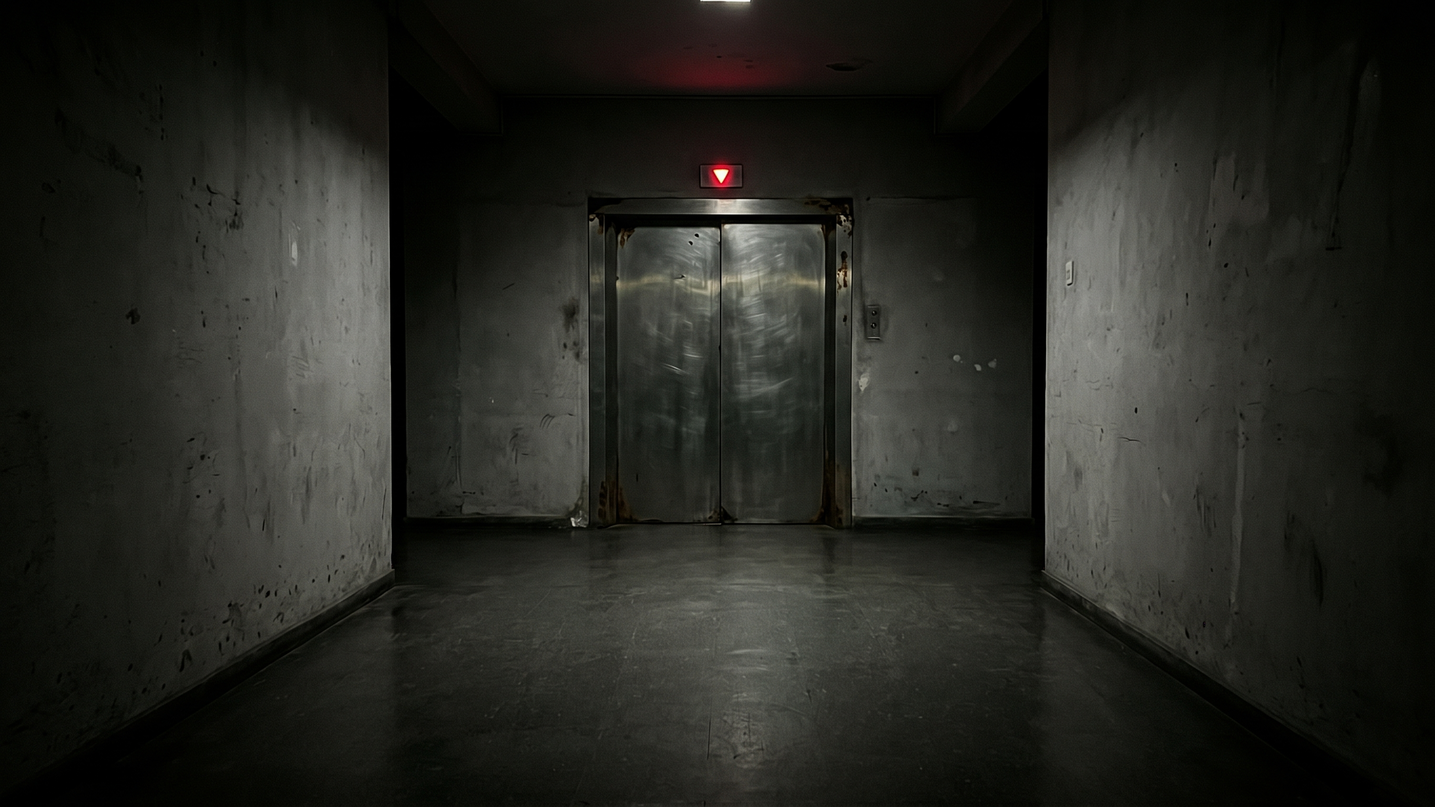
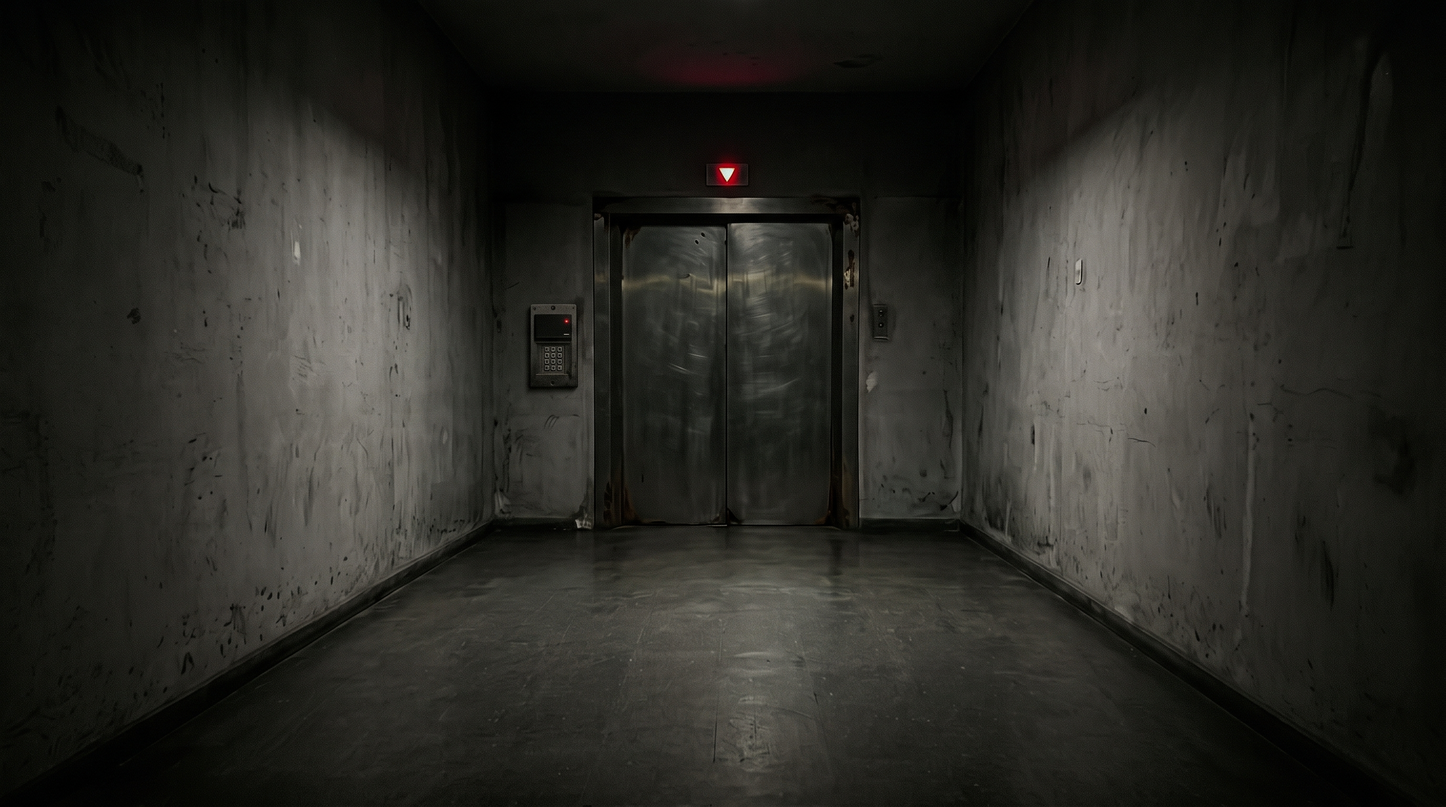
Adicionando interações e lógica de progresso

diff --git a/controller.py b/controller.py
@@ -1,0 +1,169 @@
+import pygame
+
+
+salas = ("salas/sala0.jpg",#elevador                             0
+        "salas/sala1.jpg",#hall                                  1
+        "salas/sala2.jpg",#corredor                              2
+        "salas/sala3.jpg",#relogio sala                          3
+        "salas/sala4.jpg",#manequim sala                         4
+        "salas/sala01.jpg",#elevador aberto                      5
+        "salas/sala0001.jpg",#painel elevador                    6
+        "salas/sala2001.jpg",#painel corredor fuzivel            7
+        "salas/sala2002.jpg",#painel corredor                    8
+        "salas/sala3001.jpg",#close relogio                      9
+        "salas/sala3002.jpg",#portilha relogio cartao            10
+        "salas/sala3003.jpg",#portilha relogio aberto            11
+        "salas/sala3004.jpg",#portilha relogio fechado           12
+        "salas/sala4001.jpg",# close manequim                    13
+        "salas/sala4002.jpg",#close manequim chave               14
+        "salas/sala4003.jpg",#portilha manequim fuzivel          15
+        "salas/sala4004.jpg",#portilha manequim                  16
+        "salas/sala4005.jpg"#manquim sem cabeça e chave          17
+        )  
+
+def touch(sala,menu,evento,inventario,state):
+        if evento.type == pygame.MOUSEBUTTONDOWN and evento.button == 1 and menu == False:
+                if sala == 0: #elevador 
+                        #PORTA PRINCIPAL
+                        if pygame.Rect(327, 120, 148, 209).collidepoint(evento.pos) and evento.type == pygame.MOUSEBUTTONDOWN:
+                                return sala, "Está trancada"
+                        #PAINEL ELEVADOR
+                        elif pygame.Rect(282, 181, 43, 67).collidepoint(evento.pos) and evento.type == pygame.MOUSEBUTTONDOWN:
+                                return 6, ""
+                        #VOLTAR
+                        elif pygame.Rect(1, 412, 797, 82).collidepoint(evento.pos) and evento.type == pygame.MOUSEBUTTONDOWN:
+                                return 1, ""
+                elif sala == 1:#hall 
+                        #PORTA DIREITA
+                        if pygame.Rect(29, 171, 107, 126).collidepoint(evento.pos) and evento.type == pygame.MOUSEBUTTONDOWN:
+                                return 4, ""
+                        #PORTA MEIO
+                        elif pygame.Rect(311, 76, 189, 270).collidepoint(evento.pos) and evento.type == pygame.MOUSEBUTTONDOWN:
+                                if state["elevador"]:
+                                        return 5, ""
+                                else:
+                                        return 0, ""
+                        #PORTA ESQUERDA
+                        elif pygame.Rect(646, 81, 131, 411).collidepoint(evento.pos) and evento.type == pygame.MOUSEBUTTONDOWN:
+                                return 2, ""
+                elif sala == 2:#corredor
+                        #PORTA FRENTE
+                        if pygame.Rect(340, 25, 107, 193).collidepoint(evento.pos) and evento.type == pygame.MOUSEBUTTONDOWN:
+                                if state["fuzivel_parede2"]:
+                                        return 3, ""
+                                else:
+                                        return sala, "Está sem energia"
+                                
+                        #PAINEL
+                        elif pygame.Rect(465, 94, 64, 86).collidepoint(evento.pos) and evento.type == pygame.MOUSEBUTTONDOWN:
+                                if state["fuzivel_parede2"]:
+                                        return 7, ""
+                                else:
+                                        return 8, ""
+                        #MANEQUIM
+                        #PORTA VOLTAR
+                        elif pygame.Rect(1, 412, 797, 82).collidepoint(evento.pos) and evento.type == pygame.MOUSEBUTTONDOWN:
+                                return 1, ""
+                elif sala == 3:#relogio sala 
+                        #RELOGIO
+                        if pygame.Rect(160, 97, 120, 276).collidepoint(evento.pos) and evento.type == pygame.MOUSEBUTTONDOWN:
+                                return 9, ""
+                        #PAINEL
+                        elif pygame.Rect(723, 214, 73, 137).collidepoint(evento.pos) and evento.type == pygame.MOUSEBUTTONDOWN:
+                                if state["portilha"] == 0: #trancado
+                                        return 12, ""
+                                elif state["portilha"] == 1: #sem cartao
+                                        return 11, ""
+                                elif state["portilha"] == 2: #com cartao
+                                        return 10, ""
+                        #VOLTAR
+                        elif pygame.Rect(1, 412, 797, 82).collidepoint(evento.pos) and evento.type == pygame.MOUSEBUTTONDOWN:
+                                return 2, ""
+                elif sala == 4:#manequim sala 
+                        #PAINEL
+                        if pygame.Rect(457, 129, 69, 62).collidepoint(evento.pos) and evento.type == pygame.MOUSEBUTTONDOWN:
+                                if state["fuzivel_parede1"]:
+                                        return 15, ""
+                                else:
+                                        return 16, ""
+                        #MANEQUIM
+                        elif pygame.Rect(36, 81, 182, 417).collidepoint(evento.pos) and evento.type == pygame.MOUSEBUTTONDOWN:
+                                if state["cabeca_chave"] and inventario["chave"]:
+                                        return 17, ""
+                                elif state["cabeca_chave"] and inventario["chave"] == False:
+                                        return 14, ""
+                                elif state["cabeca_chave"] == False and inventario["chave"] == False:
+                                        return 13, ""
+                        #VOLTAR
+                        elif pygame.Rect(1, 412, 797, 82).collidepoint(evento.pos) and evento.type == pygame.MOUSEBUTTONDOWN:
+                                return 1, ""
+                elif sala == 5:#elevador aberto
+                        print("teste")
+                        #VOLTAR
+                        if pygame.Rect(1, 412, 797, 82).collidepoint(evento.pos) and evento.type == pygame.MOUSEBUTTONDOWN:
+                                return 1, ""
+                        #PORTA PRINCIPAL
+                        elif pygame.Rect(327, 120, 148, 209).collidepoint(evento.pos) and evento.type == pygame.MOUSEBUTTONDOWN:
+                                return sala, "Está trancada"
+                        #PAINEL ELEVADOR
+                        elif pygame.Rect(282, 181, 43, 67).collidepoint(evento.pos) and evento.type == pygame.MOUSEBUTTONDOWN:
+                                return 6, ""
+                elif sala == 6:#painel elevador
+                        #VOLTAR
+                        if pygame.Rect(1, 412, 797, 82).collidepoint(evento.pos) and evento.type == pygame.MOUSEBUTTONDOWN:
+                                if state["elevador"]:
+                                        return 5, ""
+                                else:
+                                        return 0, ""
+                        #CLICAR PAINEL
+                        elif pygame.Rect(318, 63, 162, 325).collidepoint(evento.pos) and evento.type == pygame.MOUSEBUTTONDOWN:
+                                print("oi")
+                elif sala == 7 or sala == 8 :#FUZIVEL corredor
+                        #VOLTAR
+                        if pygame.Rect(1, 412, 797, 82).collidepoint(evento.pos) and evento.type == pygame.MOUSEBUTTONDOWN:
+                                return 2, ""
+                        #CLICAR FUZIVEL
+                        elif pygame.Rect(256, 37, 370, 341).collidepoint(evento.pos) and evento.type == pygame.MOUSEBUTTONDOWN:
+                                if inventario["fuzivel"] == False:
+                                        return sala,"É necessario um fuzivel"
+                                elif inventario["fuzivel"] and state["fuzivel_parede2"] == False:
+                                        state["fuzivel_parede2"] = True
+                                        return 7, ""
+                                elif state["fuzivel_parede2"]:
+                                        return sala, "Você já pôs o fuzivel."
+
+                elif sala == 9:#close relogio 
+                        #VOLTAR
+                        if pygame.Rect(1, 412, 797, 82).collidepoint(evento.pos) and evento.type == pygame.MOUSEBUTTONDOWN:
+                                return 3, ""
+                        #CLICAR RELOGIO
+                        elif pygame.Rect(116, 44, 600, 450).collidepoint(evento.pos) and evento.type == pygame.MOUSEBUTTONDOWN:
+                                return sala, "São 7:45"
+                elif sala == 10 or sala == 11 or sala == 12:#portilha relogio
+                        #VOLTAR
+                        if pygame.Rect(1, 412, 797, 82).collidepoint(evento.pos) and evento.type == pygame.MOUSEBUTTONDOWN:
+                                return 3, ""
+                        #CLICAR PORTINHOLA
+                        elif pygame.Rect(253, 82, 318, 305).collidepoint(evento.pos) and evento.type == pygame.MOUSEBUTTONDOWN:
+                                print("oi")
+                elif sala == 13 or sala == 14 or sala == 17:#close manequim
+                        #VOLTAR
+                        if pygame.Rect(1, 412, 797, 82).collidepoint(evento.pos) and evento.type == pygame.MOUSEBUTTONDOWN:
+                                return 4, ""
+                        #CLICAR MANEQUIM
+                        elif pygame.Rect(169, 3, 525, 493).collidepoint(evento.pos) and evento.type == pygame.MOUSEBUTTONDOWN:
+                                print("oi")
+                elif sala == 15 or sala == 16:#portilha manequim fuzivel
+                        #VOLTAR
+                        if pygame.Rect(1, 412, 797, 82).collidepoint(evento.pos) and evento.type == pygame.MOUSEBUTTONDOWN:
+                                return 4, ""
+                        #CLICAR FUZIVEL
+                        elif pygame.Rect(252, 71, 326, 356).collidepoint(evento.pos) and evento.type == pygame.MOUSEBUTTONDOWN:
+                                if state["fuzivel_parede1"]:
+                                        inventario["fuzivel"] = True; 
+                                        state["fuzivel_parede1"] = False
+                                        return 16, ""
+                                else:
+                                        return sala, "Você ja pegou o fuzivel."
+        
+        return sala, ""

diff --git a/main.py b/main.py
@@ -1,8 +1,9 @@
 import sys, os
 sys.path.insert(0, os.path.dirname(os.path.abspath(__file__)))
 import pygame
-import telas
+import controller
 import config
+import progress
 
 pygame.init()
 
@@ -35,7 +36,7 @@ tela = pygame.display.set_mode(config.resulucao[res])
 relogio = pygame.time.Clock()
 
 fundo_menu = carregar("salas/menu.jpg")
-fundos = [carregar(c) for c in telas.salas]
+fundos = [carregar(c) for c in controller.salas]
 
 preta = pygame.Surface((1920,1080))
 preta.fill((0,0,0))
@@ -61,8 +62,7 @@ while rodando:
         alpha -= 15
         if alpha <= 0:
             acende = False
-        
-
+        print(progress.inventario["fuzivel"])
  #FOR DE EVENTOS#
     for evento in pygame.event.get():
         if menu:
@@ -77,12 +77,11 @@ while rodando:
         elif evento.type == pygame.KEYDOWN and evento.key == pygame.K_ESCAPE:
             menu = True
         elif evento.type == pygame.MOUSEBUTTONDOWN and evento.button == 1:
-            touch = telas.touch(sala,menu,evento)
+            touch = controller.touch(sala,menu,evento,progress.inventario,progress.state)
+           #print(evento.pos)
         elif evento.type == pygame.KEYDOWN and evento.key == pygame.K_j:
-             print("teste")
-             teste = telas.teste()
-             print(teste)
-             print(teste[0])
+             progress.cartao = True
+
 
     destino = touch[0]
     texto = touch[1]
@@ -102,6 +101,6 @@ while rodando:
     preta.set_alpha(alpha)
     tela.blit(preta,(0,0))
     pygame.display.flip()
-    relogio.tick(config.fps[fps])
+    relogio.tick(config.fps)
     
 pygame.quit()

diff --git a/pointer.py b/pointer.py
@@ -13,7 +13,7 @@ def calcular_rect(texto):
     largura = abs(x2 - x1)
     altura = abs(y2 - y1)
 
-    return f"nome = pygame.Rect({x}, {y}, {largura}, {altura})"
+    return f"pygame.Rect({x}, {y}, {largura}, {altura}).collidepoint(evento.pos) and evento.type == pygame.MOUSEBUTTONDOWN:"
 
 
 while True:

diff --git a/progress.py b/progress.py
@@ -1,0 +1,15 @@
+inventario = {
+    "fuzivel": False,
+    "horas": False,
+    "chave": False,
+    "cartao": False,
+}
+
+#ESTADO MUNDO
+state = {
+    "fuzivel_parede1": True,
+    "cabeca_chave": False,
+    "fuzivel_parede2": False,
+    "elevador": False,
+    "portilha": 0
+}

diff --git a/config.py b/config.py
@@ -1,2 +1,2 @@
 resulucao = [(800,500),(1280, 720),(1920,1080)]
-fps = [60,30,10]
+fps = 60
